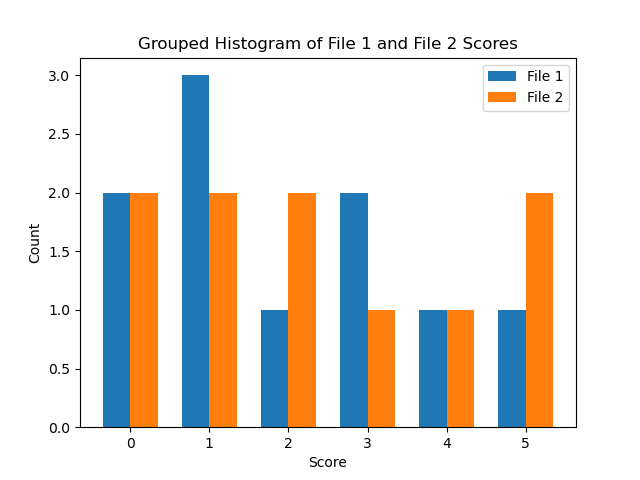
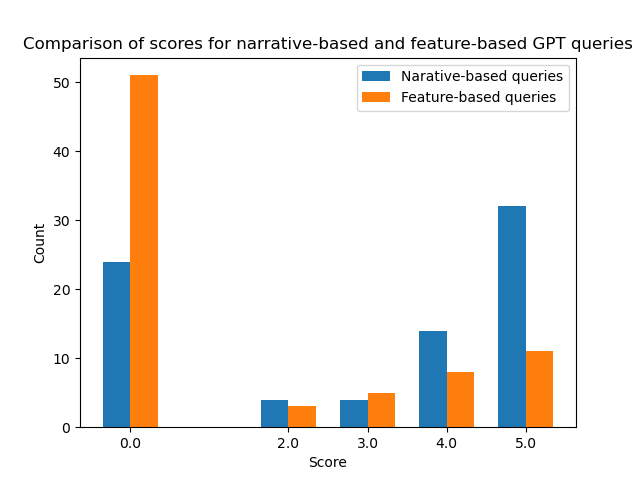
Fix figure2a

diff --git a/figure2a.py b/figure2a.py
@@ -1,13 +1,16 @@
+import os
 import pandas as pd
 import seaborn as sns
 import matplotlib.pyplot as plt
-import os
 
 score_column = 'Score (Peter)'  # change to Score (0-5) once we have met and discussed
 data_dir = 'data'
 
 file1_name = 'Table 1. ChatGPT4 Diagnosis - text without discussion - txt_cases_results.tsv'
 file2_name = 'Table 2. ChatGPT4 Diagnosis - only age_sex_signs_symptoms - phenopacket_based_queries_results.tsv'
+
+file1_label = 'Narative-based queries'
+file2_label = 'Feature-based queries'
 
 file1 = pd.read_csv(os.path.join(data_dir, file1_name), sep="\t", header=0)
 file2 = pd.read_csv(os.path.join(data_dir, file2_name), sep="\t", header=0)
@@ -21,32 +24,27 @@ df = pd.DataFrame({
     "file2_score": file2_score
 })
 
-import pandas as pd
-import matplotlib.pyplot as plt
+def to_numeric(s: pd.Series) -> pd.Series:
+    # Convert non-numeric values to NaN
+    numeric_series = pd.to_numeric(s, errors='coerce')
+    # Filter out non-numeric values
+    return s[numeric_series.notna()]
 
-# Sample data (replace this with your actual data)
-data = {
-    "file1_score": [1, 3, 0, 2, 1, 5, 3, 0, 4, 1],
-    "file2_score": [0, 3, 1, 5, 4, 0, 2, 1, 2, 5]
-}
+# Calculate the counts of each score (0 to 5) in both columns
+score_counts_file1 = to_numeric(df['file1_score']).value_counts().sort_index()
+score_counts_file2 = to_numeric(df['file2_score']).value_counts().sort_index()
 
-df = pd.DataFrame(data)
-
-# Step 1: Calculate the counts of each score (0 to 5) in both columns
-score_counts_file1 = df['file1_score'].value_counts().sort_index()
-score_counts_file2 = df['file2_score'].value_counts().sort_index()
-
-# Step 2: Create a grouped histogram
+# Create a grouped histogram
 fig, ax = plt.subplots()
 bar_width = 0.35
 index = score_counts_file1.index
 
-bar1 = ax.bar(index - bar_width/2, score_counts_file1, bar_width, label='File 1')
-bar2 = ax.bar(index + bar_width/2, score_counts_file2, bar_width, label='File 2')
+bar1 = ax.bar(index - bar_width/2, score_counts_file1, bar_width, label=file1_label)
+bar2 = ax.bar(index + bar_width/2, score_counts_file2, bar_width, label=file2_label)
 
 ax.set_xlabel('Score')
 ax.set_ylabel('Count')
-ax.set_title('Grouped Histogram of File 1 and File 2 Scores')
+ax.set_title('Comparison of scores for narrative-based and feature-based GPT queries')
 ax.set_xticks(index)
 ax.set_xticklabels(index)
 ax.legend()
